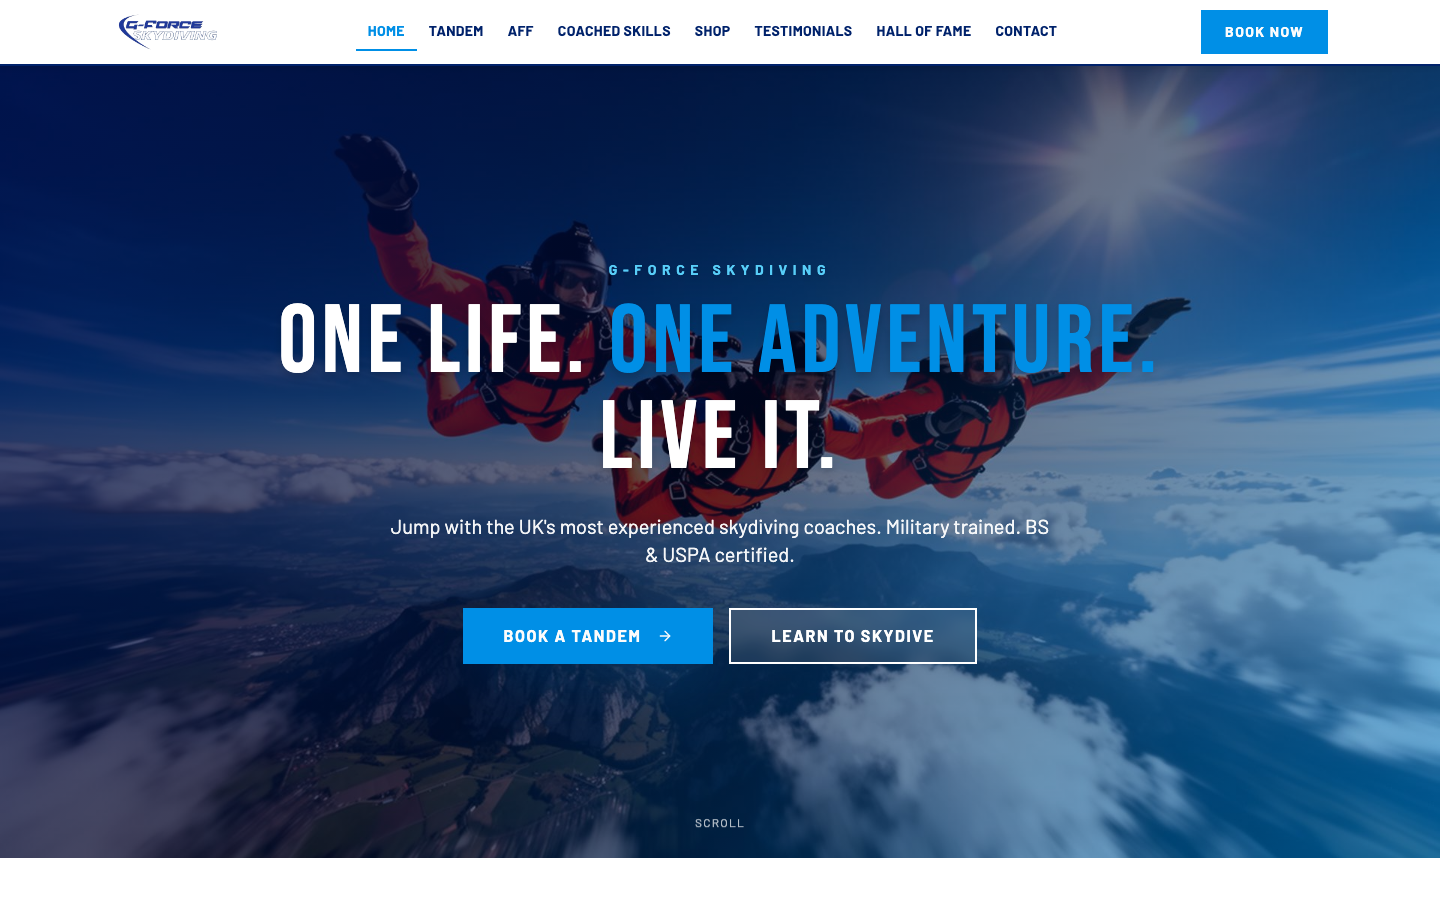
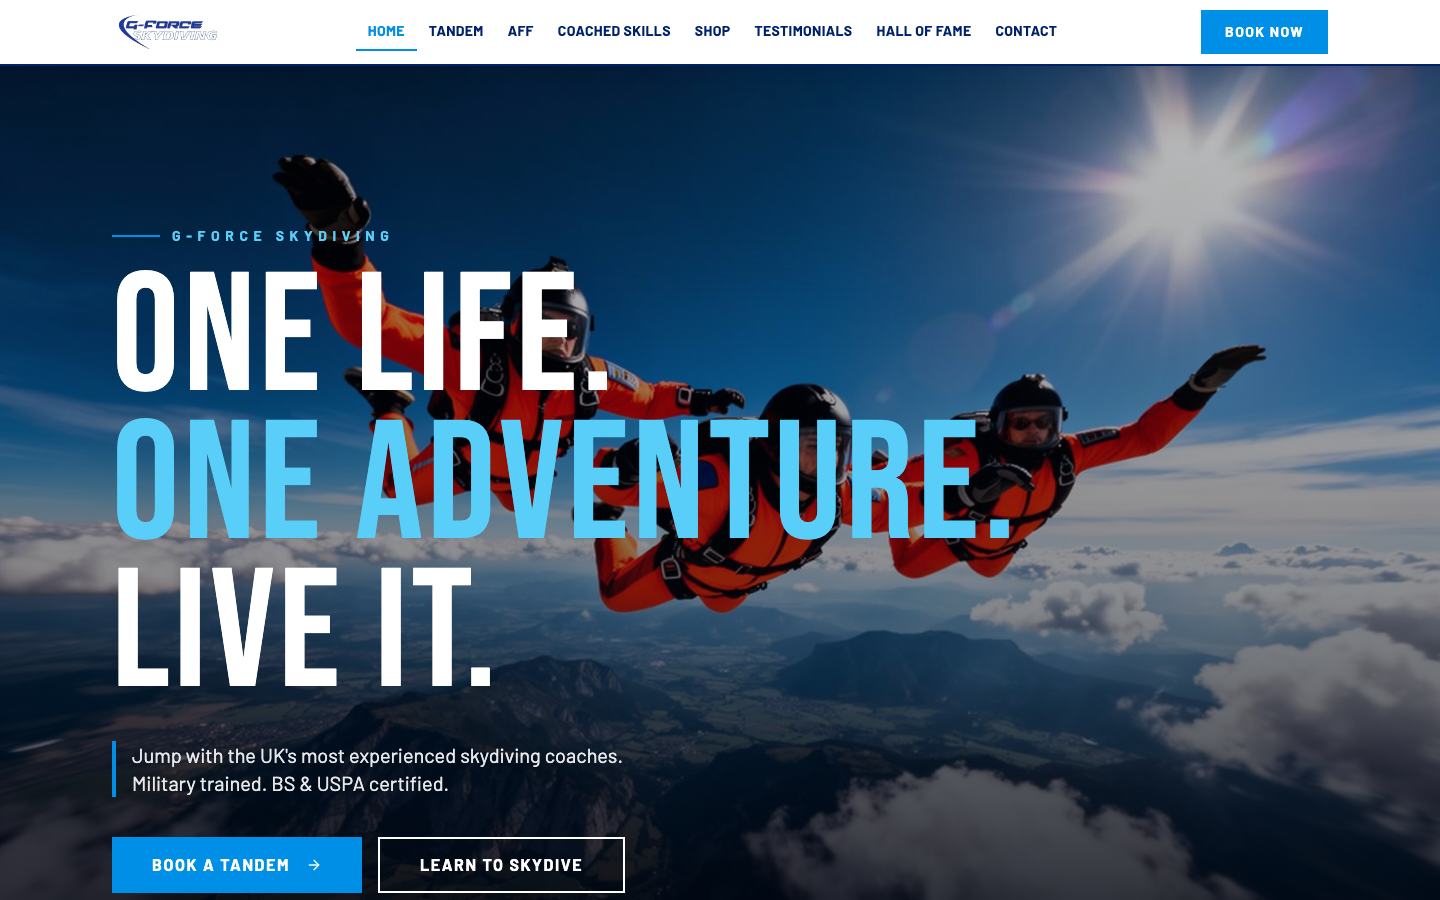
feat(design): home rebuilt — full-bleed tiles, navy bands, typographic stats, coach portraits
Stacked 10rem hero headline; services as edge-to-edge photo tiles; about
band with bleeding imagery and numeral stats; trust strip is a dark
typographic band; coaches get seeded portrait photos with name plates
(monogram block as the intentional empty state); pull-quote testimonials;
photographic CTA close.

diff --git a/resources/views/pages/home.blade.php b/resources/views/pages/home.blade.php
@@ -7,8 +7,8 @@
 @section('description', 'UK-based skydiving school offering tandem jumps, AFF courses and advanced coaching. Book your jump today.')
 
 @section('content')
-    {{-- HERO --}}
-    <section class="relative isolate flex min-h-[88vh] items-center justify-center overflow-hidden">
+    {{-- HERO: full-height photography, left-set editorial headline --}}
+    <section class="relative isolate flex min-h-[92vh] items-end overflow-hidden">
         <img
             src="{{ $home->imageUrl($home->hero_image) }}"
             alt="Skydivers in freefall above mountain landscape"
@@ -16,134 +16,145 @@
             width="1920"
             height="1280"
         />
-        <div class="absolute inset-0 bg-hero-gradient"></div>
-        <div class="relative z-10 mx-auto max-w-5xl px-4 text-center text-white">
-            <p class="mb-4 text-sm font-bold uppercase tracking-[0.4em] text-hero-accent drop-shadow-md">{{ $home->hero_eyebrow }}</p>
-            <h1 class="font-display text-5xl uppercase tracking-wider drop-shadow-lg md:text-8xl">
-                {{ $home->hero_title_1 }} <span class="text-primary">{{ $home->hero_title_highlight }}</span> {{ $home->hero_title_2 }}
+        <div class="absolute inset-0 bg-photo-scrim"></div>
+        <div class="relative z-10 mx-auto w-full max-w-7xl px-4 pb-20 pt-40 text-white lg:px-8 lg:pb-28">
+            <p class="mb-5 flex items-center gap-3 text-sm font-bold uppercase tracking-[0.4em] text-hero-accent">
+                <span class="inline-block h-0.5 w-12 bg-primary"></span>{{ $home->hero_eyebrow }}
+            </p>
+            <h1 class="font-display text-6xl uppercase leading-[0.88] tracking-wide sm:text-8xl lg:text-[10.5rem]">
+                {{ $home->hero_title_1 }}<br />
+                <span class="text-hero-accent">{{ $home->hero_title_highlight }}</span><br />
+                {{ $home->hero_title_2 }}
             </h1>
-            <p class="mx-auto mt-6 max-w-2xl text-lg opacity-95 md:text-xl">
+            <p class="mt-8 max-w-xl border-l-4 border-primary pl-4 text-lg text-white/90 md:text-xl">
                 {{ $home->hero_subtitle }}
             </p>
-            <div class="mt-10 flex flex-col items-center justify-center gap-4 sm:flex-row">
-                <x-ui.button href="/tandem" size="lg" class="h-14 bg-primary px-10 text-base text-primary-foreground shadow-glow transition-transform hover:scale-105 hover:bg-primary/90">
+            <div class="mt-10 flex flex-col gap-4 sm:flex-row">
+                <x-ui.button href="/tandem" size="lg">
                     {{ $home->hero_cta_primary_label }} <x-icon name="arrow-right" class="ml-2 h-5 w-5" />
                 </x-ui.button>
-                <x-ui.button href="/aff" size="lg" variant="outline" class="h-14 border-white bg-white/10 px-8 text-base text-white backdrop-blur hover:bg-white/20">
+                <x-ui.button href="/aff" size="lg" variant="outline-light">
                     {{ $home->hero_cta_secondary_label }}
                 </x-ui.button>
             </div>
         </div>
-        <div class="absolute bottom-6 left-1/2 -translate-x-1/2 text-white/70 text-xs uppercase tracking-widest animate-bounce">
-            Scroll
+        <div class="absolute bottom-6 right-6 hidden text-xs uppercase tracking-widest text-white/70 lg:block">
+            Scroll ↓
         </div>
     </section>
 
-    {{-- SERVICES --}}
-    <x-site.section>
-        <x-site.section-heading :eyebrow="$home->services_eyebrow" :title="$home->services_title" :lead="$home->services_lead" />
-        <div class="grid gap-6 md:grid-cols-3">
+    {{-- SERVICES: full-bleed photographic tiles, text on the image --}}
+    <section class="border-b-2 border-secondary">
+        <div class="mx-auto max-w-7xl px-4 pt-16 lg:px-8 lg:pt-24">
+            <x-site.section-heading :eyebrow="$home->services_eyebrow" :title="$home->services_title" :lead="$home->services_lead" />
+        </div>
+        <div class="grid gap-px bg-secondary md:grid-cols-3" data-reveal>
             @foreach ($services as $s)
-                <a href="{{ $s->page_path }}" class="group relative overflow-hidden rounded-2xl bg-card shadow-deep transition-transform hover:-translate-y-1">
-                    <div class="aspect-[4/3] overflow-hidden">
-                        <img src="{{ $s->image_url }}" alt="{{ $s->name }}" class="h-full w-full object-cover transition-transform duration-700 group-hover:scale-110" loading="lazy" width="1280" height="896" />
-                    </div>
-                    <div class="p-6">
-                        <div class="flex items-center justify-between">
-                            <h3 class="font-display text-2xl uppercase tracking-wide text-secondary">{{ $s->name }}</h3>
-                            <span class="text-sm font-bold text-primary">{{ $s->summary_price_label }}</span>
-                        </div>
-                        <p class="mt-2 text-muted-foreground">{{ $s->summary }}</p>
-                        <span class="mt-4 inline-flex items-center text-sm font-bold uppercase text-primary">
-                            Explore <x-icon name="arrow-right" class="ml-1 h-4 w-4 transition-transform group-hover:translate-x-1" />
+                <a href="{{ $s->page_path }}" class="group relative isolate flex aspect-[3/4] flex-col justify-end overflow-hidden bg-secondary focus-visible:outline-none focus-visible:ring-2 focus-visible:ring-ring focus-visible:ring-offset-2 md:aspect-[4/5]">
+                    <img src="{{ $s->image_url }}" alt="{{ $s->name }}" class="absolute inset-0 -z-10 h-full w-full object-cover transition-transform duration-700 group-hover:scale-105" loading="lazy" width="1280" height="896" />
+                    <div class="absolute inset-0 -z-10 bg-photo-scrim"></div>
+                    <div class="p-7 text-white">
+                        <p class="font-display text-xl text-hero-accent">{{ $s->summary_price_label }}</p>
+                        <h3 class="mt-1 font-display text-4xl uppercase leading-none tracking-wide lg:text-5xl">{{ $s->name }}</h3>
+                        <p class="mt-3 max-w-xs text-sm text-white/85">{{ $s->summary }}</p>
+                        <span class="mt-5 inline-flex items-center gap-2 border-b-2 border-primary pb-1 text-sm font-bold uppercase tracking-widest">
+                            Explore <x-icon name="arrow-right" class="h-4 w-4 transition-transform group-hover:translate-x-1" />
                         </span>
                     </div>
                 </a>
             @endforeach
         </div>
-    </x-site.section>
+    </section>
 
-    {{-- ABOUT --}}
-    <section class="bg-secondary text-secondary-foreground">
-        <div class="mx-auto grid max-w-7xl gap-12 px-4 py-20 lg:grid-cols-2 lg:px-8 lg:py-28">
-            <div>
-                <p class="text-sm font-bold uppercase tracking-[0.3em] text-primary">{{ $home->about_eyebrow }}</p>
-                <h2 class="mt-3 font-display text-4xl uppercase tracking-wide md:text-5xl">{{ $home->about_title }}</h2>
-                <p class="mt-6 text-lg opacity-90">
+    {{-- ABOUT: navy band, photos bleed to the edge --}}
+    <section class="band-ink overflow-hidden">
+        <div class="mx-auto grid max-w-7xl items-center gap-12 px-4 py-20 lg:grid-cols-2 lg:px-8 lg:py-32">
+            <div data-reveal>
+                <p class="flex items-center gap-3 text-sm font-bold uppercase tracking-[0.3em] text-sky-bright">
+                    <span class="inline-block h-0.5 w-10 bg-primary"></span>{{ $home->about_eyebrow }}
+                </p>
+                <h2 class="heading-rule mt-4 font-display text-5xl uppercase leading-[0.95] tracking-wide md:text-7xl">{{ $home->about_title }}</h2>
+                <p class="mt-6 text-lg text-white/85">
                     {{ $home->about_body }}
                 </p>
-                <div class="mt-8 grid grid-cols-3 gap-4">
+                <div class="mt-10 grid grid-cols-3 divide-x divide-white/15 border-y border-white/15">
                     @foreach ($home->about_stats as $stat)
-                        <div>
-                            <div class="text-primary"><x-icon :name="$stat['icon']" /></div>
-                            <p class="mt-2 font-display text-2xl">{{ $stat['value'] }}</p>
-                            <p class="text-xs uppercase tracking-wide opacity-80">{{ $stat['label'] }}</p>
+                        <div class="px-4 py-6 first:pl-0">
+                            <p class="font-display text-4xl leading-none md:text-5xl">{{ $stat['value'] }}</p>
+                            <p class="mt-2 text-xs font-bold uppercase tracking-[0.2em] text-sky-bright">{{ $stat['label'] }}</p>
                         </div>
                     @endforeach
                 </div>
             </div>
-            <div class="grid grid-cols-2 gap-4">
-                <img src="{{ $home->imageUrl($home->about_image_1) }}" alt="" class="aspect-[3/4] rounded-2xl object-cover shadow-deep" loading="lazy" width="1280" height="896" />
-                <img src="{{ $home->imageUrl($home->about_image_2) }}" alt="" class="mt-8 aspect-[3/4] rounded-2xl object-cover shadow-deep" loading="lazy" width="1280" height="896" />
+            <div class="relative grid grid-cols-2 gap-px bg-white/15 lg:-mr-24" data-reveal>
+                <img src="{{ $home->imageUrl($home->about_image_1) }}" alt="" class="aspect-[3/4] h-full w-full object-cover" loading="lazy" width="1280" height="896" />
+                <img src="{{ $home->imageUrl($home->about_image_2) }}" alt="" class="aspect-[3/4] h-full w-full object-cover" loading="lazy" width="1280" height="896" />
             </div>
         </div>
     </section>
 
-    {{-- TRUST STRIP --}}
-    <section class="border-y bg-card">
-        <div class="mx-auto max-w-7xl px-4 py-14 lg:px-8">
-            <p class="text-center text-sm font-bold uppercase tracking-[0.3em] text-primary">{{ $home->trust_eyebrow }}</p>
-            <h2 class="mt-2 text-center font-display text-3xl uppercase tracking-wide text-secondary md:text-4xl">{{ $home->trust_title }}</h2>
+    {{-- TRUST: typographic statement band --}}
+    <section class="border-b-2 border-secondary bg-secondary text-white">
+        <div class="mx-auto max-w-7xl px-4 py-16 lg:px-8 lg:py-20">
+            <p class="flex items-center gap-3 text-sm font-bold uppercase tracking-[0.3em] text-sky-bright">
+                <span class="inline-block h-0.5 w-10 bg-primary"></span>{{ $home->trust_eyebrow }}
+            </p>
+            <h2 class="mt-3 font-display text-4xl uppercase leading-none tracking-wide md:text-6xl">{{ $home->trust_title }}</h2>
             <x-site.trust-grid />
         </div>
     </section>
 
-    {{-- TEAM --}}
+    {{-- TEAM: editorial portraits with name plates --}}
     <x-site.section>
         <x-site.section-heading :eyebrow="$home->team_eyebrow" :title="$home->team_title" :lead="$home->team_lead" />
-        <div class="grid gap-6 md:grid-cols-3">
+        <div class="grid gap-px bg-secondary md:grid-cols-3" data-reveal>
             @foreach ($instructors as $instructor)
-                <div class="group rounded-2xl border bg-card p-8 text-center shadow-sm transition-all hover:shadow-glow">
-                    @if ($instructor->photo)
-                        <img src="{{ $instructor->photo_url }}" alt="{{ $instructor->name }}" class="mx-auto h-24 w-24 rounded-full object-cover shadow-glow" />
-                    @else
-                        <div class="mx-auto flex h-24 w-24 items-center justify-center rounded-full bg-fire-gradient text-3xl font-display text-white shadow-glow">
-                            {{ \Illuminate\Support\Str::substr($instructor->name, 0, 1) }}
+                <div class="group bg-background">
+                    <div class="relative aspect-[4/5] overflow-hidden bg-secondary">
+                        @if ($instructor->photo)
+                            <img src="{{ $instructor->photo_url }}" alt="{{ $instructor->name }}" class="h-full w-full object-cover transition-transform duration-700 group-hover:scale-105" loading="lazy" width="800" height="1000" />
+                        @else
+                            {{-- Intentional editorial fallback: giant monogram on navy --}}
+                            <div class="band-ink flex h-full w-full items-center justify-center">
+                                <span class="font-display text-[10rem] leading-none text-white/20">{{ \Illuminate\Support\Str::substr($instructor->name, 0, 1) }}</span>
+                            </div>
+                        @endif
+                        <div class="absolute inset-x-0 bottom-0 border-t-4 border-primary bg-secondary/95 px-6 py-4 text-white">
+                            <h3 class="font-display text-3xl uppercase leading-none">{{ $instructor->name }}</h3>
+                            <p class="mt-1 text-xs font-bold uppercase tracking-[0.25em] text-sky-bright">{{ $instructor->role }}</p>
                         </div>
-                    @endif
-                    <h3 class="mt-4 font-display text-2xl uppercase text-secondary">{{ $instructor->name }}</h3>
-                    <p class="text-sm font-bold uppercase tracking-wide text-primary">{{ $instructor->role }}</p>
-                    <p class="mt-3 text-muted-foreground">{{ $instructor->bio }}</p>
+                    </div>
+                    <p class="border-2 border-t-0 border-border p-6 text-muted-foreground">{{ $instructor->bio }}</p>
                 </div>
             @endforeach
         </div>
     </x-site.section>
 
     {{-- SOCIAL FEEDS --}}
-    <section class="bg-muted">
+    <section class="border-y-2 border-secondary">
         <div class="mx-auto max-w-7xl px-4 py-20 lg:px-8">
-            <div class="grid gap-12 lg:grid-cols-2">
-                <div>
-                    <h2 class="font-display text-3xl uppercase tracking-wide text-secondary flex items-center gap-3"><x-icon name="instagram" class="text-primary" /> Instagram</h2>
+            <div class="grid gap-14 lg:grid-cols-2">
+                <div data-reveal>
+                    <h2 class="flex items-center gap-3 font-display text-4xl uppercase tracking-wide text-secondary"><x-icon name="instagram" class="text-primary" /> Instagram</h2>
                     <p class="mt-2 text-muted-foreground">{{ $home->instagram_caption }}</p>
-                    <div class="mt-6 grid grid-cols-3 gap-2">
+                    <div class="mt-6 grid grid-cols-3 gap-px bg-secondary">
                         @foreach ($galleryImages as $galleryImage)
-                            <a href="{{ $general->instagram_url }}" target="_blank" rel="noreferrer" class="group relative aspect-square overflow-hidden rounded-md bg-secondary">
-                                <img src="{{ $galleryImage->image_url }}" alt="{{ $galleryImage->alt_text }}" class="h-full w-full object-cover transition-transform group-hover:scale-110" loading="lazy" />
+                            <a href="{{ $general->instagram_url }}" target="_blank" rel="noreferrer" class="group relative aspect-square overflow-hidden bg-secondary">
+                                <img src="{{ $galleryImage->image_url }}" alt="{{ $galleryImage->alt_text }}" class="h-full w-full object-cover transition-transform duration-500 group-hover:scale-110" loading="lazy" />
                                 <div class="absolute inset-0 bg-black/0 transition-colors group-hover:bg-black/40"></div>
                             </a>
                         @endforeach
                     </div>
                     <p class="mt-3 text-xs text-muted-foreground">{{ $home->instagram_note }}</p>
                 </div>
-                <div>
-                    <h2 class="font-display text-3xl uppercase tracking-wide text-secondary flex items-center gap-3"><x-icon name="facebook" class="text-primary" /> Facebook</h2>
+                <div data-reveal>
+                    <h2 class="flex items-center gap-3 font-display text-4xl uppercase tracking-wide text-secondary"><x-icon name="facebook" class="text-primary" /> Facebook</h2>
                     <p class="mt-2 text-muted-foreground">{{ $home->facebook_caption }}</p>
-                    <div class="mt-6 space-y-3">
+                    <div class="mt-6 divide-y-2 divide-border border-2 border-border">
                         @foreach ($home->facebook_posts as $p)
-                            <a href="{{ $general->facebook_url }}" target="_blank" rel="noreferrer" class="block rounded-lg border bg-card p-4 transition-colors hover:border-primary">
+                            <a href="{{ $general->facebook_url }}" target="_blank" rel="noreferrer" class="block p-5 transition-colors hover:bg-accent/40">
                                 <p class="font-semibold text-secondary">{{ $p['title'] }}</p>
-                                <p class="text-sm text-muted-foreground">{{ $p['description'] }}</p>
+                                <p class="mt-1 text-sm text-muted-foreground">{{ $p['description'] }}</p>
                             </a>
                         @endforeach
                     </div>
@@ -152,38 +163,39 @@
         </div>
     </section>
 
-    {{-- TESTIMONIALS --}}
+    {{-- TESTIMONIALS: editorial pull-quotes --}}
     <x-site.section>
         <x-site.section-heading :eyebrow="$home->testimonials_eyebrow" :title="$home->testimonials_title" />
-        <div class="grid gap-6 md:grid-cols-3">
+        <div class="grid gap-10 md:grid-cols-3 md:gap-0 md:divide-x-2 md:divide-border" data-reveal>
             @foreach ($testimonials as $t)
-                <figure class="rounded-2xl border bg-card p-6 shadow-sm">
-                    <x-icon name="sparkles" class="h-6 w-6 text-primary" />
-                    <blockquote class="mt-4 text-lg">{{ $t->home_quote }}</blockquote>
-                    <figcaption class="mt-4 text-sm font-bold uppercase tracking-wide text-secondary">— {{ $t->name }}</figcaption>
+                <figure class="md:px-8 md:first:pl-0 md:last:pr-0">
+                    <span aria-hidden="true" class="font-display text-7xl leading-none text-primary">“</span>
+                    <blockquote class="-mt-4 text-lg leading-relaxed text-foreground">{{ $t->home_quote }}</blockquote>
+                    <figcaption class="mt-5 border-t-2 border-primary pt-3 text-sm font-bold uppercase tracking-widest text-secondary">{{ $t->name }}</figcaption>
                 </figure>
             @endforeach
         </div>
     </x-site.section>
 
     {{-- NEWSLETTER --}}
-    <section class="bg-fire-gradient py-20 text-white">
+    <section class="band-ink border-y-4 border-primary py-20">
         <div class="mx-auto max-w-3xl px-4 text-center">
-            <h2 class="font-display text-4xl uppercase tracking-wide md:text-5xl">{{ $home->newsletter_title }}</h2>
-            <p class="mt-3 text-lg opacity-95">{{ $home->newsletter_subtitle }}</p>
+            <h2 class="font-display text-5xl uppercase leading-none tracking-wide md:text-6xl">{{ $home->newsletter_title }}</h2>
+            <p class="mt-4 text-lg text-white/85">{{ $home->newsletter_subtitle }}</p>
             <livewire:newsletter-signup variant="banner" />
         </div>
     </section>
 
-    {{-- CONTACT CTA --}}
-    <x-site.section>
-        <div class="rounded-3xl bg-secondary p-10 text-center text-secondary-foreground shadow-deep lg:p-16">
-            <x-icon name="shield" class="mx-auto h-10 w-10 text-primary" />
-            <h2 class="mt-4 font-display text-4xl uppercase tracking-wide md:text-5xl">{{ $home->cta_title }}</h2>
-            <p class="mx-auto mt-3 max-w-xl text-lg opacity-90">{{ $home->cta_subtitle }}</p>
-            <x-ui.button href="/contact" size="lg" class="mt-8 bg-primary text-primary-foreground hover:bg-primary/90">
+    {{-- CONTACT CTA: full-bleed photographic close --}}
+    <section class="relative isolate overflow-hidden py-28 text-white lg:py-40">
+        <img src="{{ $home->imageUrl($home->hero_image) }}" alt="" aria-hidden="true" class="absolute inset-0 -z-10 h-full w-full object-cover" loading="lazy" width="1920" height="1280" />
+        <div class="absolute inset-0 -z-10 bg-photo-scrim"></div>
+        <div class="mx-auto max-w-4xl px-4 text-center" data-reveal>
+            <h2 class="font-display text-6xl uppercase leading-[0.92] tracking-wide md:text-8xl">{{ $home->cta_title }}</h2>
+            <p class="mx-auto mt-5 max-w-xl text-lg text-white/90">{{ $home->cta_subtitle }}</p>
+            <x-ui.button href="/contact" size="lg" class="mt-10">
                 {{ $home->cta_button_label }}
             </x-ui.button>
         </div>
-    </x-site.section>
+    </section>
 @endsection

diff --git a/database/seeders/InstructorSeeder.php b/database/seeders/InstructorSeeder.php
@@ -9,10 +9,12 @@ class InstructorSeeder extends Seeder
 {
     public function run(): void
     {
+        // Photos are bundled placeholder crops; the owner replaces them with
+        // real portraits through the admin panel.
         $instructors = [
-            ['name' => 'Joby', 'role' => 'Chief Instructor', 'bio' => 'Ex-military jumper with thousands of jumps and decades of teaching.'],
-            ['name' => 'Ricky', 'role' => 'AFF Instructor', 'bio' => 'Specialist in coaching new jumpers from first jump to A licence.'],
-            ['name' => 'Lucy', 'role' => 'Tandem Instructor', 'bio' => 'Bringing energy, safety and unforgettable experiences to every jump.'],
+            ['name' => 'Joby', 'role' => 'Chief Instructor', 'bio' => 'Ex-military jumper with thousands of jumps and decades of teaching.', 'photo' => '/images/instructors/jay.jpg'],
+            ['name' => 'Ricky', 'role' => 'AFF Instructor', 'bio' => 'Specialist in coaching new jumpers from first jump to A licence.', 'photo' => '/images/instructors/ren.jpg'],
+            ['name' => 'Lucy', 'role' => 'Tandem Instructor', 'bio' => 'Bringing energy, safety and unforgettable experiences to every jump.', 'photo' => '/images/instructors/lee.jpg'],
         ];
 
         foreach ($instructors as $i => $data) {

diff --git a/app/Models/Instructor.php b/app/Models/Instructor.php
@@ -40,7 +40,15 @@ class Instructor extends Model
      */
     protected function photoUrl(): Attribute
     {
-        return Attribute::make(get: fn (): ?string => $this->photo ? Storage::disk('public')->url($this->photo) : null);
+        return Attribute::make(get: function (): ?string {
+            if (! $this->photo) {
+                return null;
+            }
+
+            return str_starts_with($this->photo, '/')
+                ? $this->photo
+                : Storage::disk('public')->url($this->photo);
+        });
     }
 
     /**
